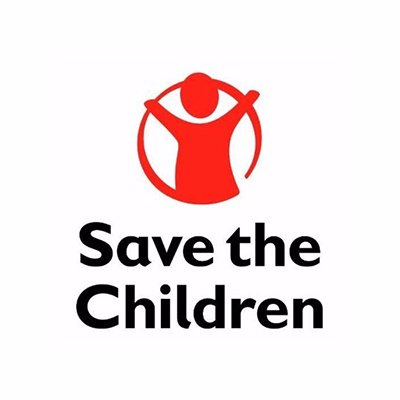
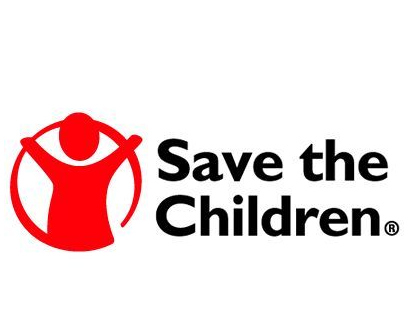
added other charity cards

Changed region(s): [[0.0, 0.1829, 0.99, 0.8232]]

diff --git a/Gift-RUN-rn/src/components/charities/STCcard.js b/Gift-RUN-rn/src/components/charities/STCcard.js
@@ -4,23 +4,24 @@ import { Button, Card, Layout, Text } from "@ui-kitten/components";
 
 const Header = (props) => (
   <View {...props}>
-    <Text category="h6">SPCA</Text>
+    <Text category="h6">Save the Children</Text>
   </View>
 );
 
 const Footer = (props) => (
   <View {...props} style={[props.style, styles.footerContainer]}>
     <Text>
-      SPCA International works to stop the abuse and suffering of animals with
-      innovative programs that serve both animals and their human caretakers.
+      In the U.S. and around the world, we give children a healthy start in
+      life, the opportunity to learn and protection from harm. We do whatever it
+      takes to save children, transforming their lives and the future we share.
     </Text>
   </View>
 );
 
-const SPCAcard = ({ navigation }) => (
+const STCcard = ({ navigation }) => (
   <React.Fragment>
     <Card style={styles.card} header={Header} footer={Footer}>
-      <Image source={require("../../assets/spca.png")} style={styles.image} />
+      <Image source={require("../../assets/STC.jpg")} style={styles.image} />
     </Card>
   </React.Fragment>
 );
@@ -33,9 +34,9 @@ const styles = StyleSheet.create({
     height: 350,
   },
   image: {
-    height: 140,
+    height: 130,
     width: 300,
   },
 });
 
-export default SPCAcard;
+export default STCcard;

diff --git a/Gift-RUN-rn/src/components/charities/HFHcard.js b/Gift-RUN-rn/src/components/charities/HFHcard.js
@@ -4,23 +4,24 @@ import { Button, Card, Layout, Text } from "@ui-kitten/components";
 
 const Header = (props) => (
   <View {...props}>
-    <Text category="h6">SPCA</Text>
+    <Text category="h6">Habitat for Humanity</Text>
   </View>
 );
 
 const Footer = (props) => (
   <View {...props} style={[props.style, styles.footerContainer]}>
     <Text>
-      SPCA International works to stop the abuse and suffering of animals with
-      innovative programs that serve both animals and their human caretakers.
+      Habitat for Humanity is a nonprofit organization that helps people in your
+      community and around the world build or improve a place they can call
+      home.
     </Text>
   </View>
 );
 
-const SPCAcard = ({ navigation }) => (
+const HFHcard = ({ navigation }) => (
   <React.Fragment>
     <Card style={styles.card} header={Header} footer={Footer}>
-      <Image source={require("../../assets/spca.png")} style={styles.image} />
+      <Image source={require("../../assets/HH.png")} style={styles.image} />
     </Card>
   </React.Fragment>
 );
@@ -38,4 +39,4 @@ const styles = StyleSheet.create({
   },
 });
 
-export default SPCAcard;
+export default HFHcard;

diff --git a/Gift-RUN-rn/src/components/charities/ACSard.js b/Gift-RUN-rn/src/components/charities/ACSard.js
@@ -4,23 +4,23 @@ import { Button, Card, Layout, Text } from "@ui-kitten/components";
 
 const Header = (props) => (
   <View {...props}>
-    <Text category="h6">SPCA</Text>
+    <Text category="h6">American Cancer Society</Text>
   </View>
 );
 
 const Footer = (props) => (
   <View {...props} style={[props.style, styles.footerContainer]}>
     <Text>
-      SPCA International works to stop the abuse and suffering of animals with
-      innovative programs that serve both animals and their human caretakers.
+      Dedicated to helping people who face cancer. Learn about cancer research,
+      patient services, early detection, treatment and education at cancer.org.
     </Text>
   </View>
 );
 
-const SPCAcard = ({ navigation }) => (
+const ACScard = ({ navigation }) => (
   <React.Fragment>
     <Card style={styles.card} header={Header} footer={Footer}>
-      <Image source={require("../../assets/spca.png")} style={styles.image} />
+      <Image source={require("../../assets/ACS.png")} style={styles.image} />
     </Card>
   </React.Fragment>
 );
@@ -38,4 +38,4 @@ const styles = StyleSheet.create({
   },
 });
 
-export default SPCAcard;
+export default ACScard;

diff --git a/Gift-RUN-rn/src/screens/CharitiesScreen.js b/Gift-RUN-rn/src/screens/CharitiesScreen.js
@@ -9,6 +9,9 @@ import {
 } from "@ui-kitten/components";
 
 import SPCAcard from "../components/charities/SPCAcard";
+import ACScard from "../components/charities/ACSard";
+import STCcard from "../components/charities/STCcard";
+import HFHcard from "../components/charities/HFHcard";
 
 const CharitiesScreen = ({ navigation }) => {
   return (
@@ -37,12 +40,9 @@ const CharitiesScreen = ({ navigation }) => {
                 navigation.navigate("RunDetails");
               }}
             />
-            <SPCAcard
-              onPress={() => {
-                navigation.navigate("RunDetails");
-              }}
-              style={styles.card}
-            />
+            <ACScard onPress={() => {}} style={styles.card} />
+            <STCcard onPress={() => {}} style={styles.card} />
+            <HFHcard onPress={() => {}} style={styles.card} />
           </ScrollView>
         </View>
       </Layout>
@@ -58,10 +58,6 @@ const styles = StyleSheet.create({
   text: {
     width: "90%",
     marginBottom: 40,
-  },
-  card: {
-    marginRight: 20,
-    width: 100,
   },
 });
 
